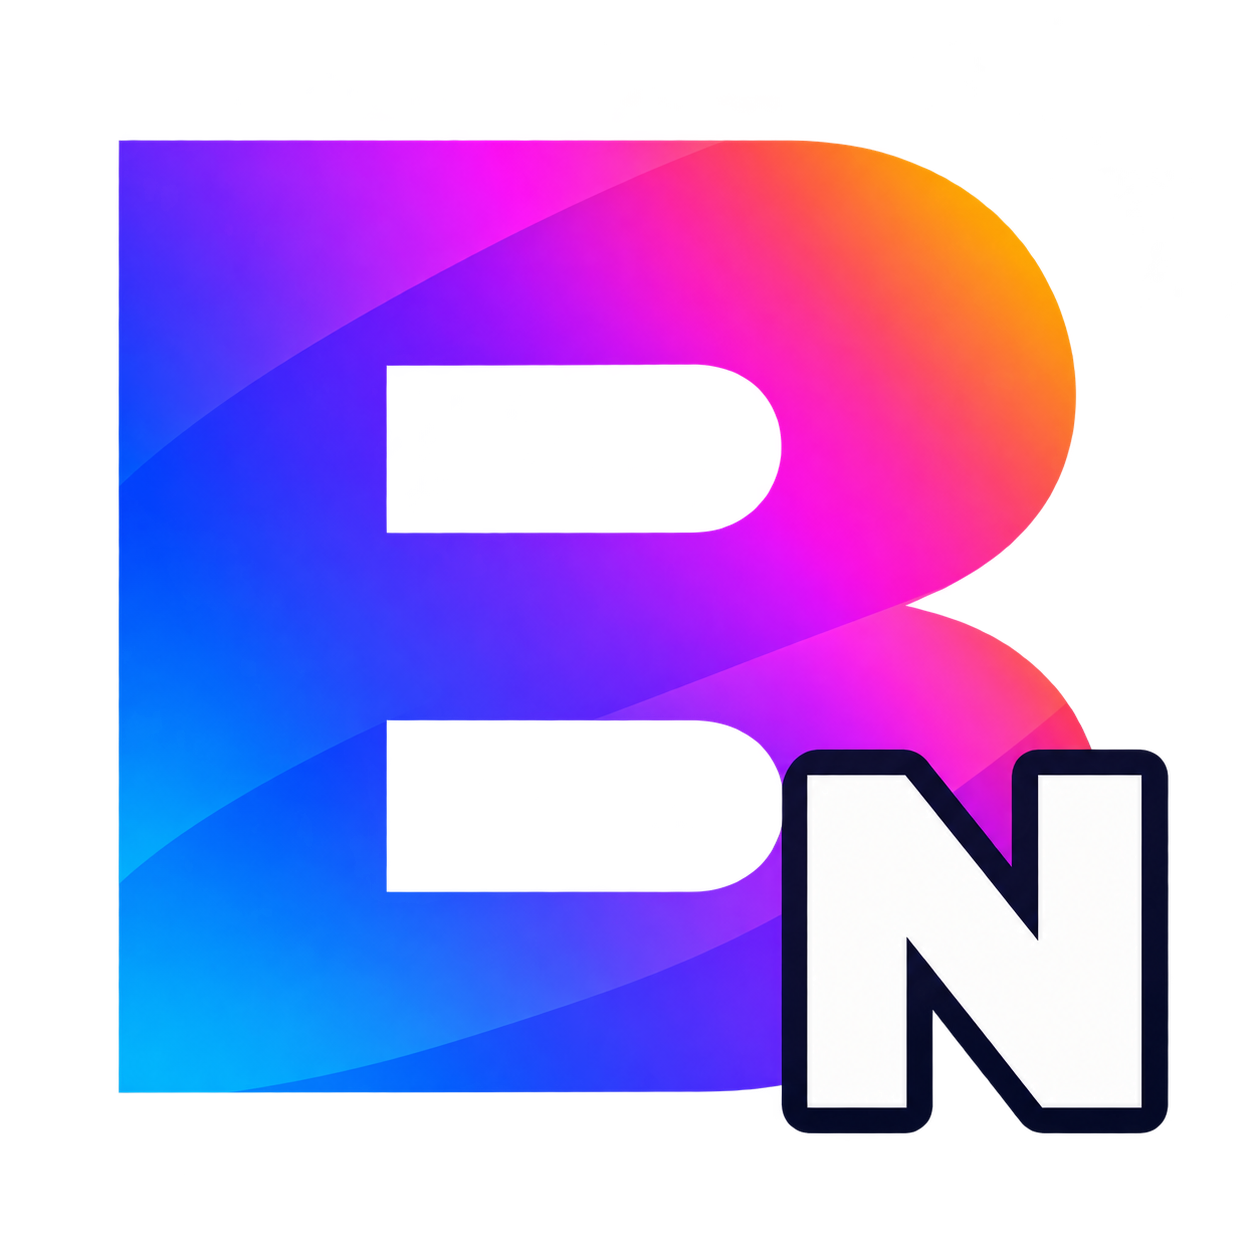
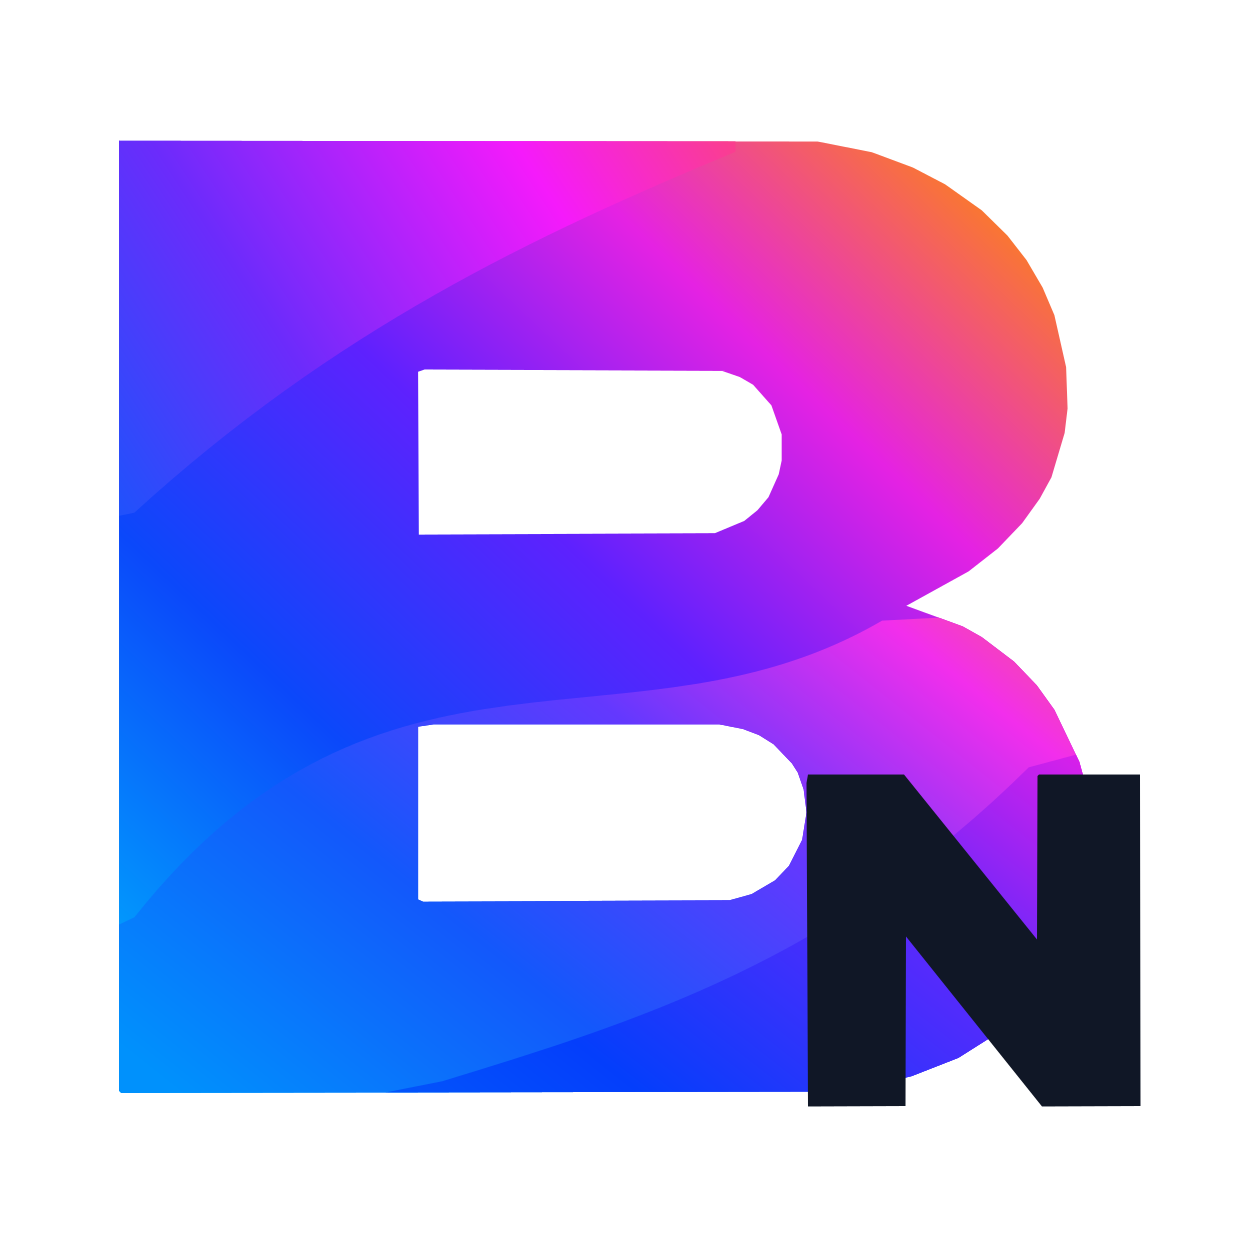
Vectorize project branding (#25)
* Vectorize project branding

* Remove unused SVG gradients

diff --git a/docs/plans/2026-10-28-branding-svg-design.md b/docs/plans/2026-10-28-branding-svg-design.md
@@ -1,0 +1,24 @@
+# Branding SVG design
+
+## Goal
+
+Replace raster-first branding with reusable SVG assets while preserving the original layered gradients and letter shapes.
+
+## Logo
+
+- Use a 1280×640 transparent canvas for GitHub repository cards.
+- Keep all visible artwork inside the 80 px safe area.
+- Represent `Big` and `Number` entirely with paths; do not reference fonts or raster images.
+- Preserve the four gradient bands in `B` and the layered transitions in `i` and `g`.
+
+## Project icon
+
+- Preserve the square 1254×1254 transparent canvas and the four-band `B` treatment.
+- Rebuild `N` from its inner glyph outline and fill it with the same dark navy used by `Number`.
+- Keep the SVG and PNG variants visually aligned, and use the same SVG for the IDE project icon.
+
+## Verification
+
+- Parse both SVG files as XML and render them to PNG.
+- Confirm the SVG files contain no `text`, `image`, font, or external-reference elements.
+- Compare the rendered assets against the approved previews on white and transparent backgrounds.

diff --git a/README.md b/README.md
@@ -1,5 +1,5 @@
 <p align="center">
-  <img src="docs/assets/bignumber-logo.png" alt="BigNumber logo" width="420">
+  <img src="docs/assets/bignumber-logo.svg" alt="BigNumber logo" width="420">
 </p>
 
 <h1 align="center">BigNumber</h1>
